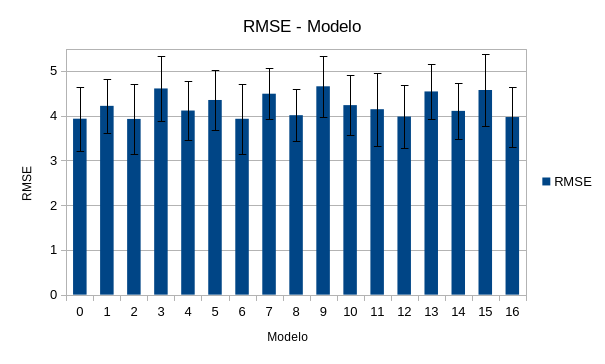
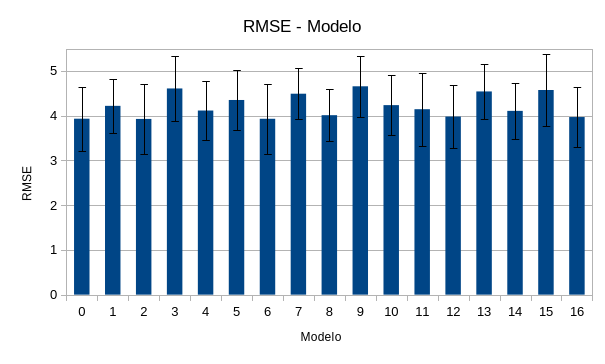
memoria

diff --git a/docs/plantilla_tfg_2019.tex b/docs/plantilla_tfg_2019.tex
@@ -424,13 +424,15 @@ $$\texttt{Anova Test:}~(f=1.455,~\text{prob}=0.124,~\alpha=0.050)$$
 
 \begin{figure}[H]
     \includegraphics[width=\linewidth]{t-test.jpeg}
+    \caption {\small Matriz de resultados \textit{t-test}}
 \end{figure}
 
     El modelo 9 cuenta con un RMSE anormalmente alto de $4,657\pm 0.686$. También podemos observar que existen 2 clases de modelos donde el principal componente diferenciador es la \textit{loss function}: la función \textit{Huber} presenta, en general, un error más bajo que los modelos con la función \textit{absolute} con los mismos parámetros. Esto se puede comprobar a través de los siguientes gráficos:
 
 \begin{figure}[H]
-    \includegraphics[width=\linewidth]{RMSE-models.png}\\
-    \includegraphics[width=\linewidth]{error-lossfunction.png}
+    \includegraphics[width=0.45\linewidth]{RMSE-models.png}
+    \includegraphics[width=0.45\linewidth]{error-lossfunction.png}
+    \caption{\small Error de cada modelo y error medio según \textit{loss function}}
 \end{figure}
 
     Con toda esta información concluimos que el mejor modelo y con el que haremos la predicción es el modelo 2, debido a que se trata de un modelo considerablemente sencillo (menor número de capas y valores por defecto) y con el menor error.
@@ -473,6 +475,7 @@ A continuación se muestran en forma de gráfico la predicción para 3 semanas j
 
 \begin{figure}[H]
     \includegraphics[width=\linewidth]{predict-1-bao.png}\\
+    \caption{\small Valores anteriores y  predichos por el modelo}
 \end{figure}
 En el gráfico se muestran 4 semanas previas a la predicción, siendo la semana 0 la primera predicha por nuestro modelo.
 
